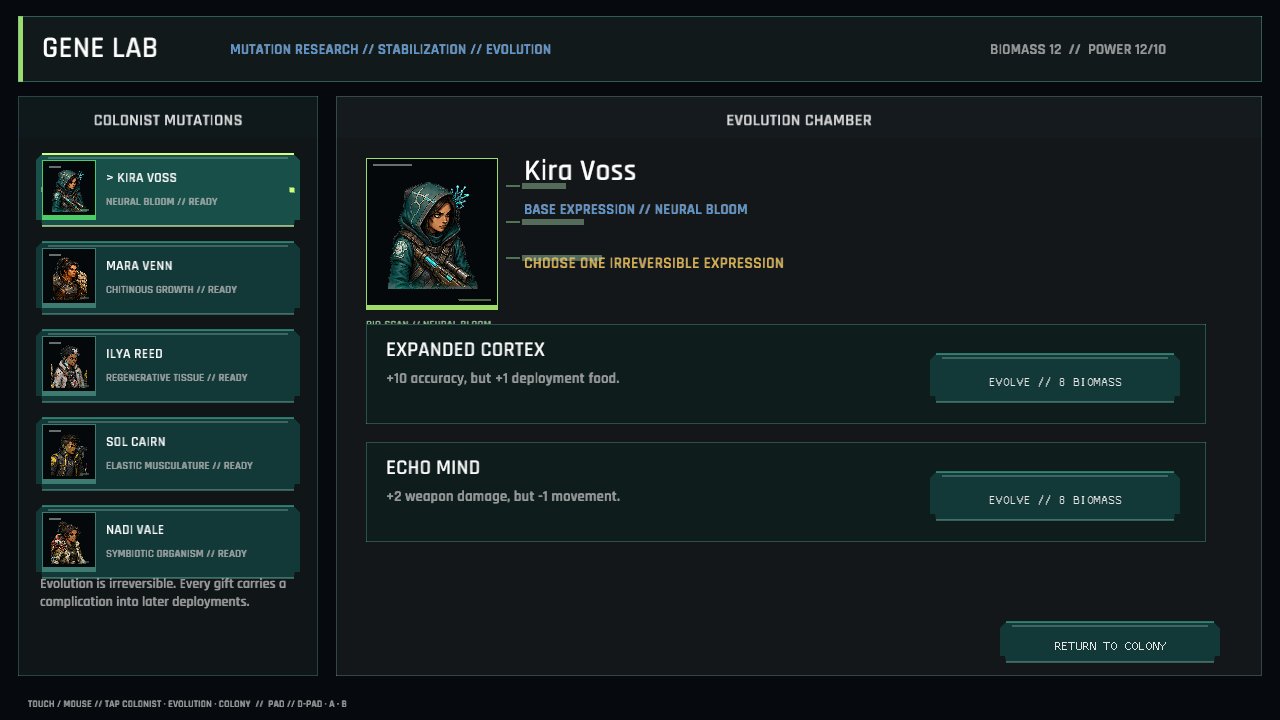
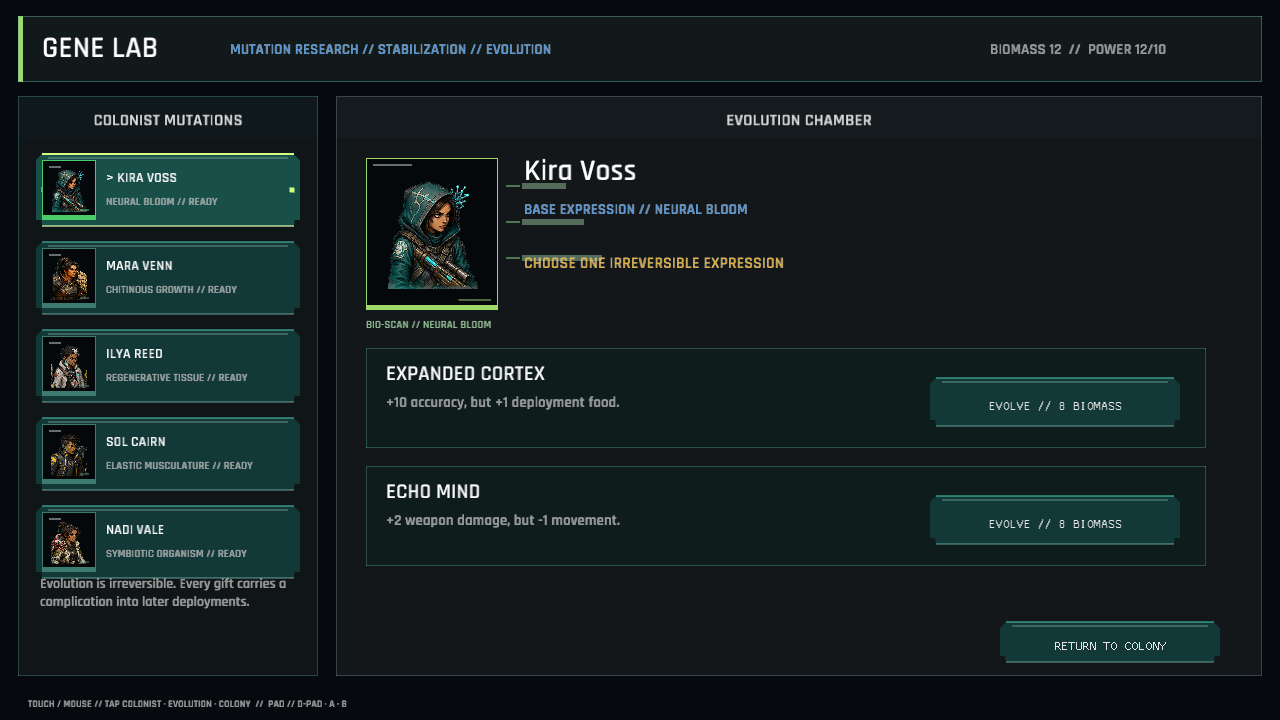
The scan clears before the chamber speaks (gene lab layout)
The first Gene Lab evolution card was painted over the portrait's BIO-SCAN label, making the mutation readout look clipped on both the standard and recruited views. Move the irreversible expression cards below the scan, add geometry coverage, refresh the affected evidence, and record the 1.199.0 no-schema-change checkpoint.

diff --git a/src/gene_lab_ui.rs b/src/gene_lab_ui.rs
@@ -27,6 +27,13 @@ fn evolution_button_label(affordable: bool, biomass_cost: i32) -> String {
     }
 }
 
+const EVOLUTION_OPTION_START_Y: f32 = 348.0;
+const EVOLUTION_OPTION_STEP_Y: f32 = 118.0;
+
+fn evolution_option_y(index: usize) -> f32 {
+    EVOLUTION_OPTION_START_Y + index as f32 * EVOLUTION_OPTION_STEP_Y
+}
+
 pub(crate) fn draw_gene_lab(
     campaign: &CampaignState,
     data: &GameData,
@@ -289,7 +296,7 @@ fn draw_evolution_panel(
             TextStyle::new(16.0, dark::WARNING).params(),
         );
         for (index, evolution) in mutation.evolutions.iter().enumerate() {
-            let y = 324.0 + index as f32 * 118.0;
+            let y = evolution_option_y(index);
             let biomass_cost = campaign.mutation_evolution_cost(evolution);
             let affordable = campaign.colony.resources.biomass >= biomass_cost;
             draw_surface(

diff --git a/src/gene_lab_ui/tests.rs b/src/gene_lab_ui/tests.rs
@@ -17,3 +17,14 @@ fn full_recruited_roster_stays_inside_gene_lab_list() {
     assert!(last_row_bottom <= 568.0);
     assert!(height >= 50.0);
 }
+
+#[test]
+fn evolution_options_clear_the_anatomy_scan_and_return_control() {
+    let bio_scan_baseline = 328.0;
+    let first_option = evolution_option_y(0);
+    let second_option = evolution_option_y(1);
+    let return_button_top = 622.0;
+
+    assert!(first_option > bio_scan_baseline);
+    assert!(second_option + 100.0 < return_button_top);
+}

diff --git a/docs/verification/FINAL_CAPTURE_INVENTORY.md b/docs/verification/FINAL_CAPTURE_INVENTORY.md
@@ -32,6 +32,7 @@ Manifest: `scripts/capture_ui.ps1`
 - `ui_first_hour_operations.png`: guided colony handoff keeps the next mission briefing and active preparation visible inside the open Operations drawer.
 - `ui_battle_log.png` and `ui_phase_replay.png`: attack history and hostile replay beats use readable display names, name HIT/MISS outcomes with immediate damage consequences, and the battle log distinguishes ability, recovery, status, objective, and cover events with matching counts on each filter.
 - `ui_debrief.png`: the operation result keeps rewards and squad consequences visible while the notification stack names each automatic technique learned by a readable colonist name.
+- `ui_gene_lab.png` and `ui_recruited_gene_lab.png`: the mutation anatomy scan label remains visible above the separated irreversible evolution cards.
 - `ui_combat_feedback.png`: hit, miss, critical, damage, recovery, objective, and cover callouts remain anchored to their affected field locations and stack clear of unit effects.
 - `ui_construction.png`: placement blueprint and reserved resources remain visible at fixed building scale.
 
@@ -48,7 +49,7 @@ Manifest: `scripts/capture_ui.ps1`
[8 lines of base64/hex data omitted]
@@ -82,7 +83,7 @@ Manifest: `scripts/capture_ui.ps1`
[8 lines of base64/hex data omitted]

diff --git a/TECHNICAL_DESIGN.md b/TECHNICAL_DESIGN.md
@@ -2,7 +2,7 @@
 
 Status: systems-rich tech demo; playable-game refinement in progress
 Current production target: cohesive first-hour playable build
-Save/content version: 1.198.0
+Save/content version: 1.199.0
 Target platforms: Windows and browser/WASM
 Runtime: Rust 2021, Macroquad, macroquad-toolkit
 
@@ -974,6 +974,7 @@ Migration coverage:
 | 1.196.0 | Hostile replay beats now pair attacks with immediate damage or incapacitation results while keeping objective and cover consequences chronological; no new save fields |
 | 1.197.0 | Tactical event summaries now title-case internal identifiers so battle history and hostile replay use readable display names; no new save fields |
 | 1.198.0 | Automatic post-operation technique learning now reports each readable colonist and technique in the debrief notification stack; no new save fields |
+| 1.199.0 | Gene Lab evolution cards now clear the portrait anatomy scan label and the return control; no new save fields |
 
 Every future schema bump must migrate the immediately previous version and add a
 fixture test. Validate saved content IDs before adding content removal or renaming.

diff --git a/docs/verification/UI_GRAPHICS_ACCEPTANCE_MATRIX.md b/docs/verification/UI_GRAPHICS_ACCEPTANCE_MATRIX.md
@@ -70,7 +70,7 @@ Each row must have a post-overhaul PNG in the final capture directory and pass t
 | contact_gear | Roster/equipment | No authored equipment art | `ui_contact_gear.png` | PASS |
 | contact_event | Colony event | Weak event illustration and hierarchy | `ui_contact_event.png` | PASS |
 | adaptation | Colony | Phase evolution primarily textual | `ui_adaptation.png` | PASS |
-| gene_lab | Gene lab | No illustrated mutation anatomy | `ui_gene_lab.png` | PASS |
+| gene_lab | Gene lab | Evolution card obscured the portrait anatomy scan label | `ui_gene_lab.png` | PASS |
 | evolution | Roster/gene lab | Evolution visible mainly as text | `ui_evolution.png` | PASS |
 | mara_evolution | Gene lab | No recruit-specific evolved portrait/sprite cue | `ui_mara_evolution.png` | PASS |
 | ilya_evolution | Gene lab | No recruit-specific evolved portrait/sprite cue | `ui_ilya_evolution.png` | PASS |

diff --git a/docs/PHASE_1_HARDENING.md b/docs/PHASE_1_HARDENING.md
@@ -31,7 +31,7 @@ Status: automated and internal verification complete; external playtests pending
 
 ## Automated verification baseline
 
-- 494 Mirexis unit tests pass, including deployment-row affordance coverage for full,
+- 495 Mirexis unit tests pass, including deployment-row affordance coverage for full,
   minimum, and recovering squads, construction availability coverage for unlocks,
   materials, and unique projects, effective repair-cost affordability coverage, and
   tactical equipment cancellation coverage, invalid-target persistence coverage, and

diff --git a/docs/PHASE_1_ACCEPTANCE_MATRIX.md b/docs/PHASE_1_ACCEPTANCE_MATRIX.md
@@ -1,7 +1,7 @@
 # Phase 1 Acceptance Matrix
 
 Status: implementation evidence audited; observed-session gates pending
-Audit baseline: save/content 1.198.0, validated and committed with this matrix
+Audit baseline: save/content 1.199.0, validated and committed with this matrix
 
 This matrix maps every Phase 1 workstream and definition-of-done requirement to
 authoritative evidence. `VERIFIED` means code, tests, captures, or an operator-run path
